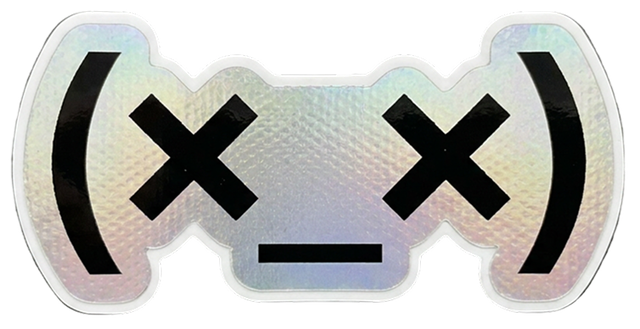
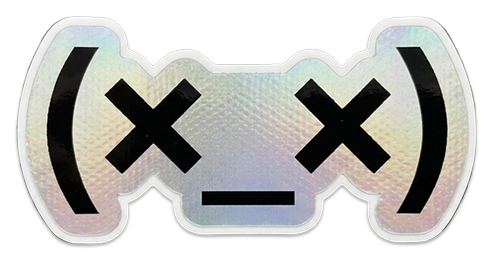
404: baked tight shadow into PNGs (no CSS filter), chaotic stick order/direction, fewer layers, no will-change
Claude-Session: https://claude.ai/code/session_01Pgti6HsXLTYBr51zSdi7KQ

diff --git a/src/404.js b/src/404.js
@@ -6,7 +6,9 @@
 
 const SRC = (n) => `stickers-404/404-sticker-${n}.png`;
 // Пропорции файлов 754 × (388 | 524 | 424); ширина в макете 1440 — около 240
-const RATIO = { 1: 388 / 754, 2: 524 / 754, 3: 424 / 754 };
+// Файлы 496 × (263 | 350 | 286): сам стикер 480 + по 8 на запечённую тень
+const RATIO = { 1: 263 / 496, 2: 350 / 496, 3: 286 / 496 };
+const PAD = 496 / 480;
 const BASE_W = 240;
 
 const EASE_OUT = 'cubic-bezier(0.22, 1, 0.36, 1)';
@@ -31,8 +33,8 @@ const k = 1;
 
 // ----- раскладка -----
 const items = [];
-const stepX = BASE_W * 0.58 * k;
-const stepY = BASE_W * 0.44 * k;
+const stepX = BASE_W * 0.66 * k;
+const stepY = BASE_W * 0.5 * k;
 const cols = Math.ceil(W / stepX) + 2;
 const rows = Math.ceil(H / stepY) + 2;
 let kind = 0;
@@ -65,32 +67,30 @@ const all = items.concat(hero);
 // Легко для браузера: только transform и opacity, без фильтров, 3D и бликов.
 // Стикер подъезжает от центра экрана чуть крупнее и повёрнутым, и прижимается.
 const stick = (el, rot, x, y) => {
-  const dx = x - W / 2;
-  const dy = y - H / 2;
-  const len = Math.hypot(dx, dy) || 1;
-  const ox = (-dx / len) * 22;
-  const oy = (-dy / len) * 22;
+  // Откуда и как садится — у каждого стикера своё, случайное: никакого круга
+  const ang = Math.random() * Math.PI * 2;
+  const dist = rand(14, 34);
+  const ox = Math.cos(ang) * dist;
+  const oy = Math.sin(ang) * dist;
+  const spin = rand(-9, 9);
+  const big = rand(1.08, 1.2);
   const T = (tx, ty, r, sc) => `translate(-50%, -50%) translate(${tx}px, ${ty}px) rotate(${r}deg) scale(${sc})`;
-  const anim = el.animate(
+  el.animate(
     [
-      { transform: T(ox, oy, rot - 6, 1.14), opacity: 0, offset: 0 },
-      { transform: T(ox * 0.3, oy * 0.3, rot - 2, 1.06), opacity: 1, offset: 0.35 },
+      { transform: T(ox, oy, rot + spin, big), opacity: 0, offset: 0 },
+      { transform: T(ox * 0.3, oy * 0.3, rot + spin * 0.3, 1 + (big - 1) * 0.4), opacity: 1, offset: 0.35 },
       { transform: T(0, 0, rot, 0.97), opacity: 1, offset: 0.75 },
       { transform: T(0, 0, rot, 1), opacity: 1, offset: 1 },
     ],
-    { duration: 420, easing: EASE_OUT, fill: 'both' },
+    { duration: rand(340, 460), easing: EASE_OUT, fill: 'both' },
   );
-  // После посадки слой снимаем с видеокарты
-  anim.onfinish = () => {
-    el.style.willChange = 'auto';
-  };
 };
 
 const make = (s) => {
   const el = document.createElement('div');
   el.className = 'nf__sticker';
-  el.style.width = `${s.w}px`;
-  el.style.height = `${s.w * RATIO[s.n]}px`;
+  el.style.width = `${s.w * PAD}px`;
+  el.style.height = `${s.w * PAD * RATIO[s.n]}px`;
   el.style.left = `${s.x}px`;
   el.style.top = `${s.y}px`;
   el.style.setProperty('--rot', `${s.rot}deg`);
@@ -104,14 +104,13 @@ const make = (s) => {
 };
 
 const run = () => {
-  // Весь набор клеится примерно за 2 с; главная тройка — последней, чуть медленнее
-  const gap = Math.min(36, 1800 / Math.max(1, items.length));
+  // Клеятся вперемешку в случайные моменты за ~1,8 с; главная тройка — в конце
+  const span = 1800;
   all.forEach((s, i) => {
     const el = make(s);
     if (reduce.matches) return;
-    el.style.willChange = 'transform, opacity';
     const isHero = i >= items.length;
-    const delay = isHero ? items.length * gap + 150 + (i - items.length) * 260 : i * gap;
+    const delay = isHero ? span + 100 + (i - items.length) * 240 : Math.random() * span;
     setTimeout(() => stick(el, s.rot, s.x, s.y), delay);
   });
 };

diff --git a/docs/assets/notFound-C16M4jpg.js b/docs/assets/notFound-C16M4jpg.js
@@ -1,0 +1,1 @@
+import"./styles-D-nwigwI.js";const $=o=>`stickers-404/404-sticker-${o}.png`,H={1:263/496,2:350/496,3:286/496},M=496/480,r=240,S="cubic-bezier(0.22, 1, 0.36, 1)",T=window.matchMedia("(prefers-reduced-motion: reduce)");document.querySelector(".nf");const A=document.querySelector(".nf__stickers"),c=(o,t)=>o+Math.random()*(t-o),I=o=>{for(let t=o.length-1;t>0;t-=1){const n=Math.floor(Math.random()*(t+1));[o[t],o[n]]=[o[n],o[t]]}return o},d=window.innerWidth,m=window.innerHeight,k=1,a=[],h=r*.66*k,y=r*.5*k,W=Math.ceil(d/h)+2,q=Math.ceil(m/y)+2;let f=0;for(let o=0;o<q;o+=1)for(let t=0;t<W;t+=1){f=(f+1+(Math.random()<.35?1:0))%3;const n=f+1,s=(Math.random()<.5?-1:1)*c(6,34);a.push({n,x:(t-.25)*h+c(-.35,.35)*h+(o%2?h/2:0),y:(o-.25)*y+c(-.3,.3)*y,w:r,rot:s})}I(a);const e=1,C=[{n:1,x:d/2-215*e,y:m/2+24*e,w:r*e,rot:-22},{n:3,x:d/2+10*e,y:m/2-64*e,w:r*e,rot:-3},{n:2,x:d/2+150*e,y:m/2+34*e,w:r,rot:5}],O=a.concat(C),R=(o,t,n,s)=>{const p=Math.random()*Math.PI*2,i=c(14,34),u=Math.cos(p)*i,w=Math.sin(p)*i,g=c(-9,9),x=c(1.08,1.2),l=(P,E,_,b)=>`translate(-50%, -50%) translate(${P}px, ${E}px) rotate(${_}deg) scale(${b})`;o.animate([{transform:l(u,w,t+g,x),opacity:0,offset:0},{transform:l(u*.3,w*.3,t+g*.3,1+(x-1)*.4),opacity:1,offset:.35},{transform:l(0,0,t,.97),opacity:1,offset:.75},{transform:l(0,0,t,1),opacity:1,offset:1}],{duration:c(340,460),easing:S,fill:"both"})},j=o=>{const t=document.createElement("div");t.className="nf__sticker",t.style.width=`${o.w*M}px`,t.style.height=`${o.w*M*H[o.n]}px`,t.style.left=`${o.x}px`,t.style.top=`${o.y}px`,t.style.setProperty("--rot",`${o.rot}deg`);const n=document.createElement("img");return n.src=$(o.n),n.alt="",n.draggable=!1,t.append(n),A.appendChild(t),t},v=()=>{O.forEach((t,n)=>{const s=j(t);if(T.matches)return;const i=n>=a.length?1900+(n-a.length)*240:Math.random()*1800;setTimeout(()=>R(s,t.rot,t.x,t.y),i)})},z=[1,2,3].map(o=>new Promise(t=>{var s;const n=new Image;n.onload=n.onerror=t,n.src=$(o),(s=n.decode)==null||s.call(n).then(t,t)}));Promise.race([Promise.all(z),new Promise(o=>setTimeout(o,1500))]).then(v);

diff --git a/docs/assets/notFound-DnsGYkh1.css b/docs/assets/notFound-DnsGYkh1.css
@@ -1,0 +1,1 @@
+.page-404{min-height:100svh;overflow:hidden;background:#000;color:var(--color-white)}.nf{position:fixed;top:0;right:0;bottom:0;left:0;overflow:hidden;background:#000}.nf__sr{position:absolute;width:1px;height:1px;margin:-1px;overflow:hidden;clip:rect(0 0 0 0);white-space:nowrap}.nf__stickers{position:absolute;top:0;right:0;bottom:0;left:0;overflow:hidden;pointer-events:none}.nf__sticker{--rot: 0deg;position:absolute;display:block;transform:translate(-50%,-50%) rotate(var(--rot));transform-origin:center;opacity:0}.nf__sticker img{display:block;width:100%;height:100%;object-fit:contain;-webkit-user-select:none;user-select:none;-webkit-user-drag:none}.nf__home{position:absolute;left:50%;bottom:clamp(24px,5vh,48px);z-index:5;display:inline-flex;align-items:center;justify-content:center;height:48px;padding:0 28px;border-radius:20px;background:#e92153;color:var(--color-white);font-size:16px;font-weight:500;letter-spacing:-.02em;text-decoration:none;transform:translate(-50%);transition:background-color .25s ease-out}.nf__home:hover,.nf__home:focus-visible{background:#ff3d6e;outline:none}@media(prefers-reduced-motion:reduce){.nf__sticker{opacity:1}}

diff --git a/docs/404.html b/docs/404.html
@@ -20,10 +20,10 @@
     <style>
       html, body { background: #000; }
     </style>
-    <script type="module" crossorigin src="./assets/notFound-CTI3RVCj.js"></script>
+    <script type="module" crossorigin src="./assets/notFound-C16M4jpg.js"></script>
     <link rel="modulepreload" crossorigin href="./assets/styles-D-nwigwI.js">
     <link rel="stylesheet" crossorigin href="./assets/styles-Be5cRXtF.css">
-    <link rel="stylesheet" crossorigin href="./assets/notFound-DopL-CCu.css">
+    <link rel="stylesheet" crossorigin href="./assets/notFound-DnsGYkh1.css">
   </head>
   <body class="page-404">
     <main class="nf" aria-labelledby="nf-title">

diff --git a/src/404.css b/src/404.css
@@ -41,8 +41,8 @@
   transform: translate(-50%, -50%) rotate(var(--rot));
   transform-origin: center;
   opacity: 0;
-  /* Тень как у настоящего стикера: короткая и почти не размытая */
-  filter: drop-shadow(0 1px 1px rgba(0, 0, 0, 0.55));
+  /* Тень запечена в картинку: короткая и почти не размытая, без filter —
+     он тормозил на десятках стикеров */
 }
 
 .nf__sticker img {
